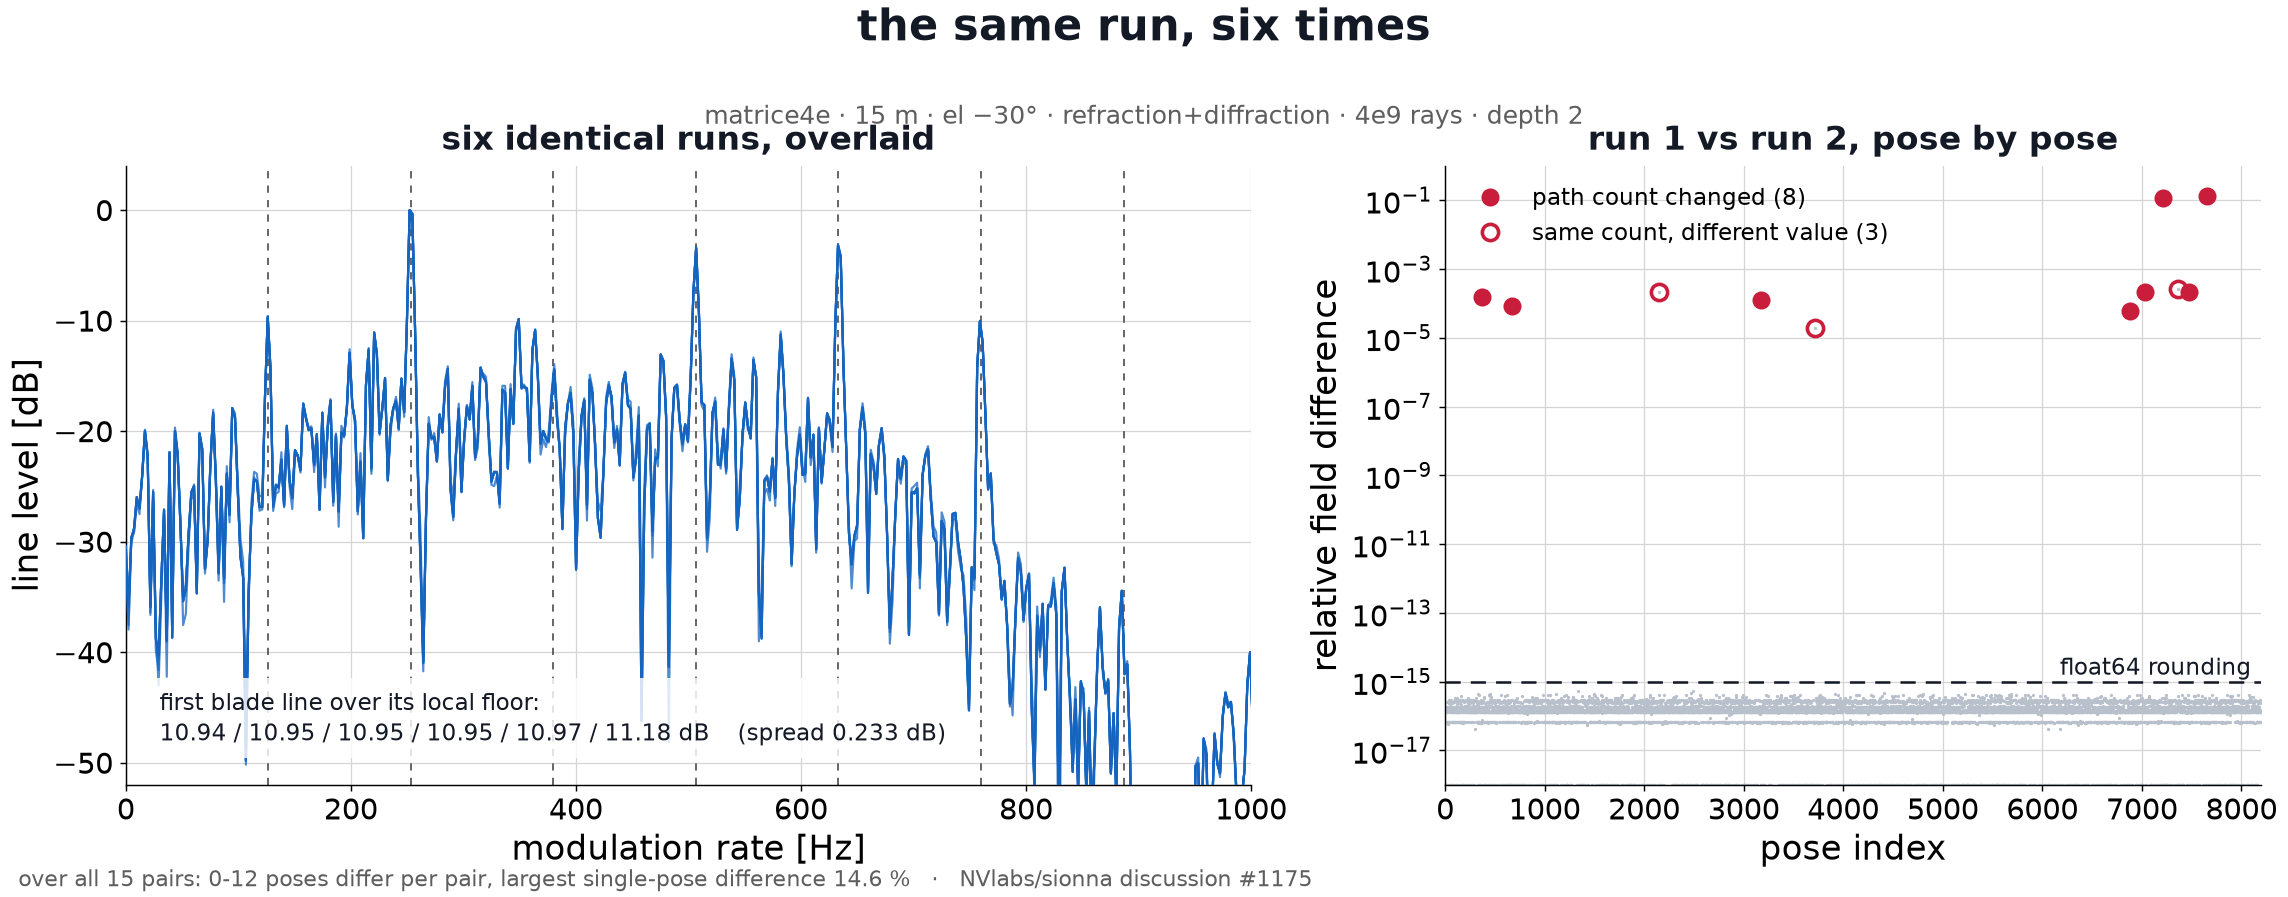
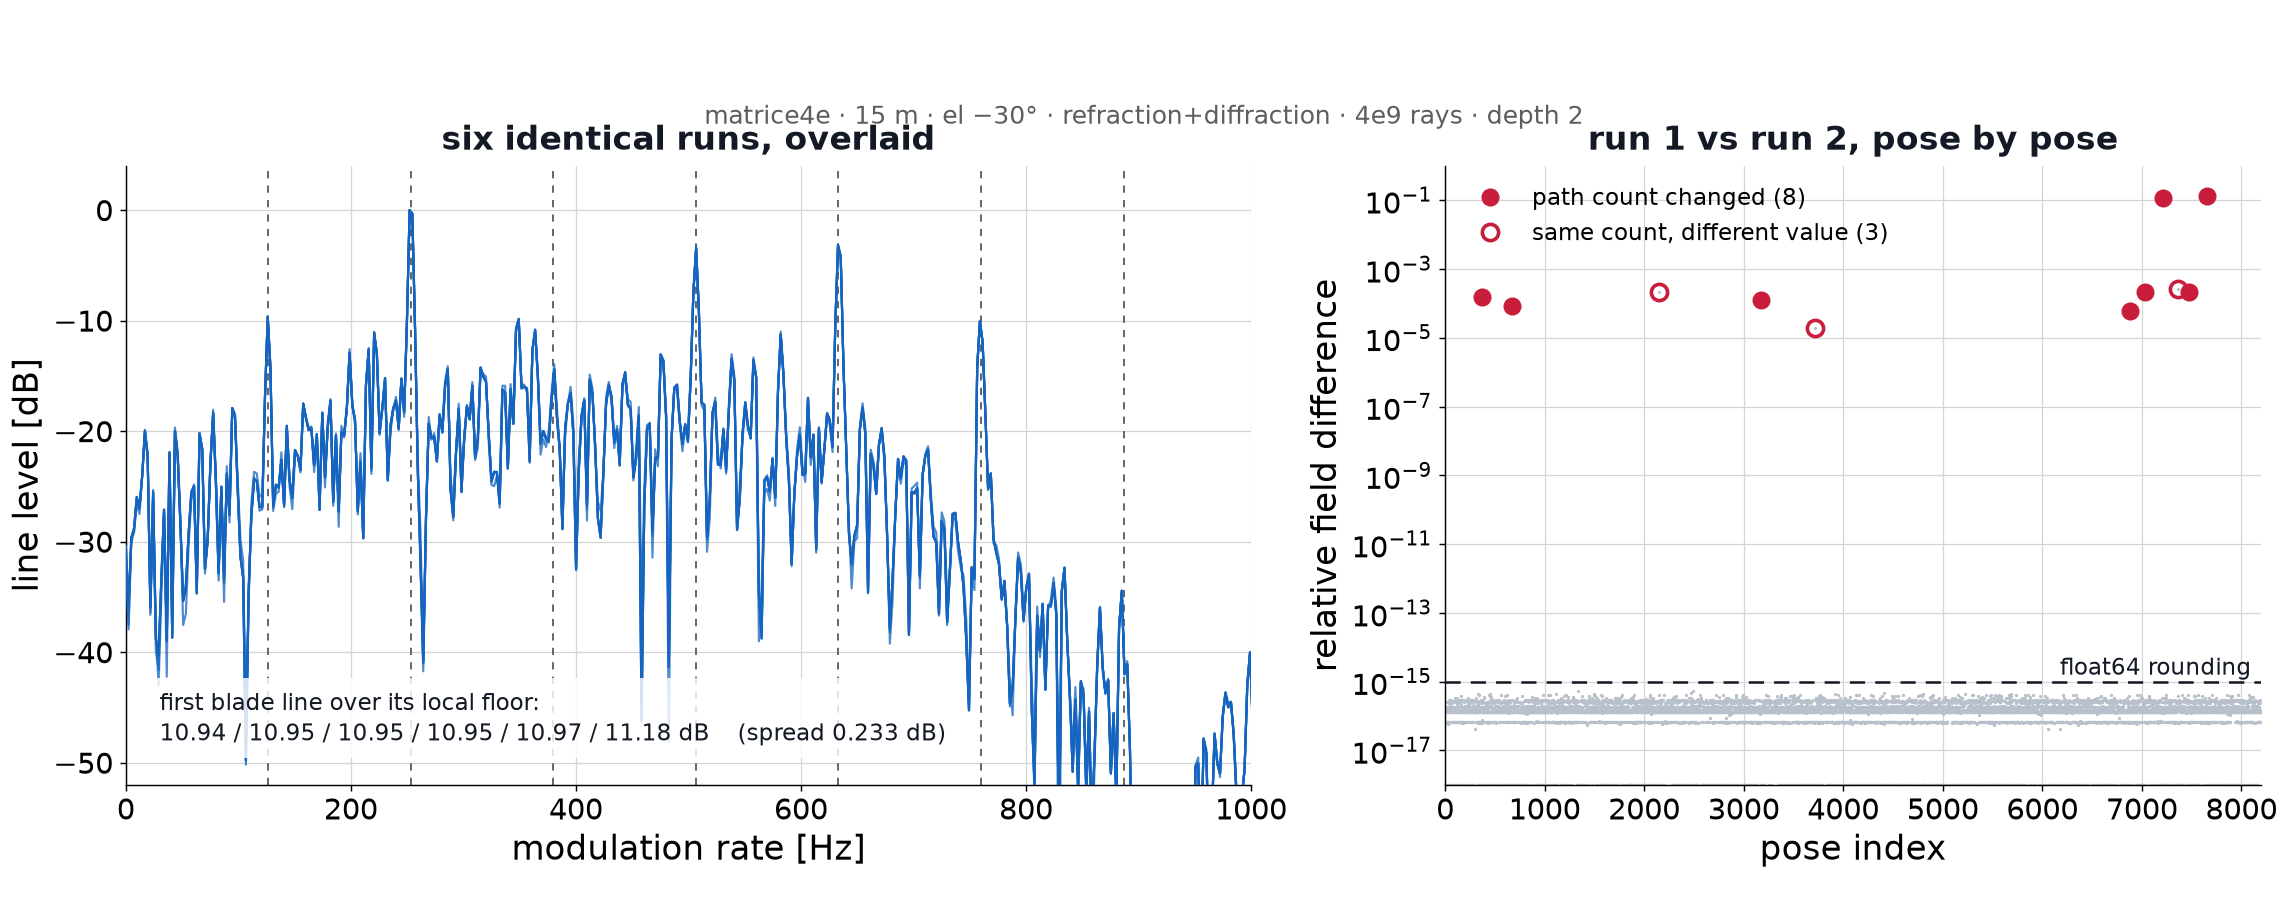
그림 라벨 나머지 정리 — 각주·부제·그림 제목 삭제
라벨 검증 medium/low 반영. repeat_poses·noise_all_arms·clutter_methods 의
그림 제목·부제·각주를 지웠다 — 슬라이드 제목·결론바·노트가 이미 말한다.

Changed region(s): [[0.0, 0.9677, 0.5896, 0.9989], [0.3724, 0.0, 0.6206, 0.0624]]

diff --git a/benchmark/repeat_poses_0901.py b/benchmark/repeat_poses_0901.py
@@ -122,16 +122,12 @@ def main():
     print(f"  15 짝 · 짝마다 다른 자세 {min(n_pair)}~{max(n_pair)} 개 · "
           f"한 번이라도 다른 자세 {len(ever)} 개 · 최대 상대차 {100*worst:.1f} %")
     fig.subplots_adjust(top=0.815, bottom=0.125, left=0.055, right=0.988)
-    fig.text(0.5, 0.955, "the same run, six times",
-             ha="center", fontsize=24, color="#141926", weight="bold")
+    # ⛔그림 제목 삭제(라벨 검증) — 슬라이드 제목이 같은 말을 한다.
     # ⛔빨간줄 삭제(라벨 검증) — 슬라이드 리드·결론바가 같은 말을 한다.
     fig.text(0.5, 0.862, f"matrice4e {chr(183)} 15 m {chr(183)} el {MINUS}30{DEG} "
              f"{chr(183)} refraction+diffraction {chr(183)} 4e9 rays {chr(183)} depth 2",
              ha="center", fontsize=14, color="#5E5E5E")
-    fig.text(0.008, 0.012, f"over all 15 pairs: {min(n_pair)}-{max(n_pair)} poses differ "
-             f"per pair, largest single-pose difference {100*worst:.1f} %   "
-             f"{chr(183)}   NVlabs/sionna discussion #1175",
-             ha="left", fontsize=12, color="#5E5E5E")
+    # ⛔11쪽 각주(15짝·14.6%·#1175 — 노트에 있다) 삭제(라벨 검증 2026-09-02)
     p = f"{ROOT}/outputs/figures/repeat_poses_0901.png"
     fig.savefig(p, dpi=130); plt.close(fig)
     print(f"  ✅ {p}")

diff --git a/benchmark/noise_all_arms_0901.py b/benchmark/noise_all_arms_0901.py
@@ -96,9 +96,7 @@ def main():
     fig.text(0.5, 0.921, f"matrice4e {chr(183)} 15 m {chr(183)} el {MINUS}30{DEG} "
              f"{chr(183)} complex white gaussian added to the stored series",
              ha="center", fontsize=15, color="#C81E3C", weight="bold")
-    fig.text(0.5, 0.888, "SNR is measured against each arm's own moving part   "
-             f"{chr(183)}   each panel scaled to its own peak",
-             ha="center", fontsize=13, color="#5E5E5E")
+    # ⛔부록 부제(SNR 기준 설명 — 노트에 있다) 삭제(라벨 검증 2026-09-02)
     # ⛔각주 삭제(2026-09-02) — 「엔진끼리 세기를 견주는 게 아니다」는 노트에 있다.
     p = f"{FIG}/vol_noise_all_arms.png"
     fig.savefig(p, dpi=125)
